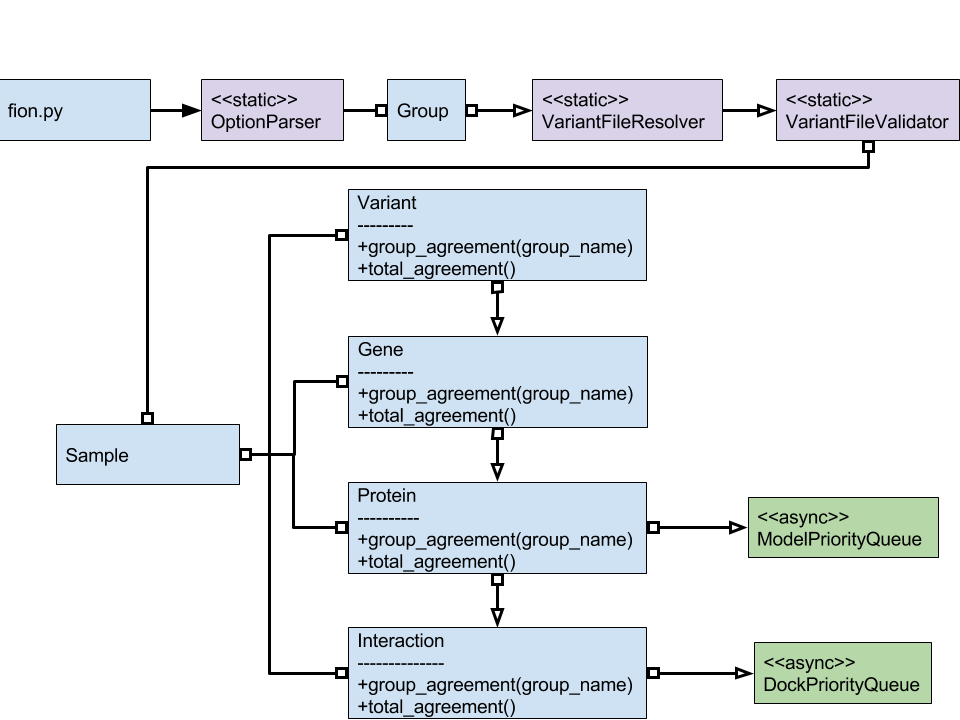
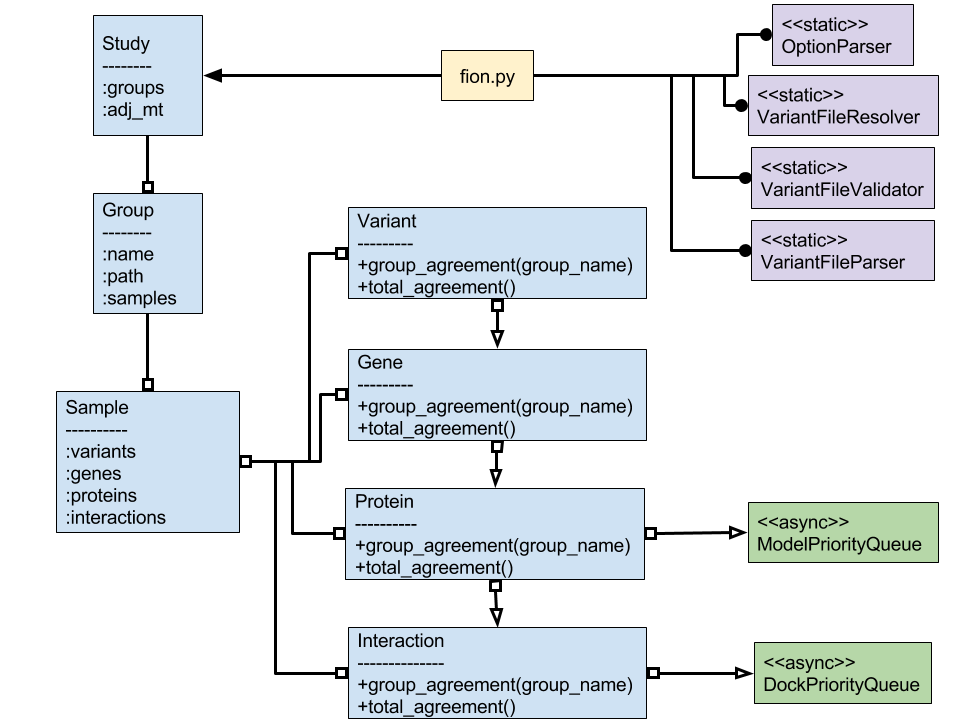
updating architecture, working to match

Changed region(s): [[0.0, 0.0, 1.0, 0.9167], [0.0312, 0.5194, 0.25, 0.7639]]

diff --git a/src/fion.py b/src/fion.py
@@ -1,0 +1,15 @@
+
+"""
+---------
+S = Study(op(options))
+For vf in vfr(S)
+    If vfv.valid(vf)
+        G = Group(vf)
+        For dl in vfp(vfr).data_lines
+            M = Sample(dl.arg1 to dl.argN)
+            G.add(M)
+        S.add(G)
+    Else
+        Error
+
+"""
